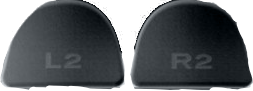
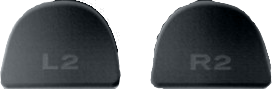
Add files via upload

diff --git a/sn30.css b/sn30.css
@@ -11,10 +11,11 @@
     display: none;
 }
 .custom .triggers{ 
-    width: 567px;
+    width: 566px;
     height: 91px;
     position: absolute;
-    left: 77px;
+    left: 80px;
+    top: 24px;
 }
 .custom .trigger{
     height:91px;
@@ -27,23 +28,23 @@
     float: left;
 }
 .custom .trigger.right{
-    width: 125px;
-    background-position: -128px 0;
+    width: 123px;
+    background-position: -150px 0;
     float: right;
 }
 
 .custom .bumper{
-    width: 40px;
+    width: 160px;
     height: 40px;
-    background: url(pressed.png);
+    background: url(bumpers.png);
     display: none;
 }
 .custom .bumpers{
     position: absolute;
-    width: 464px;
+    width: 579px;
     height: 40px;
-    left: 130px;
-    top: 114px;
+    left: 72px;
+    top: 118px;
 }
 .custom .bumper.pressed{
     display: block;
@@ -52,6 +53,8 @@
     float: left;
 }
 .custom .bumper.right{
+    background-position: -160px 0;
+    width: 157px;
     float: right;
 }
 
